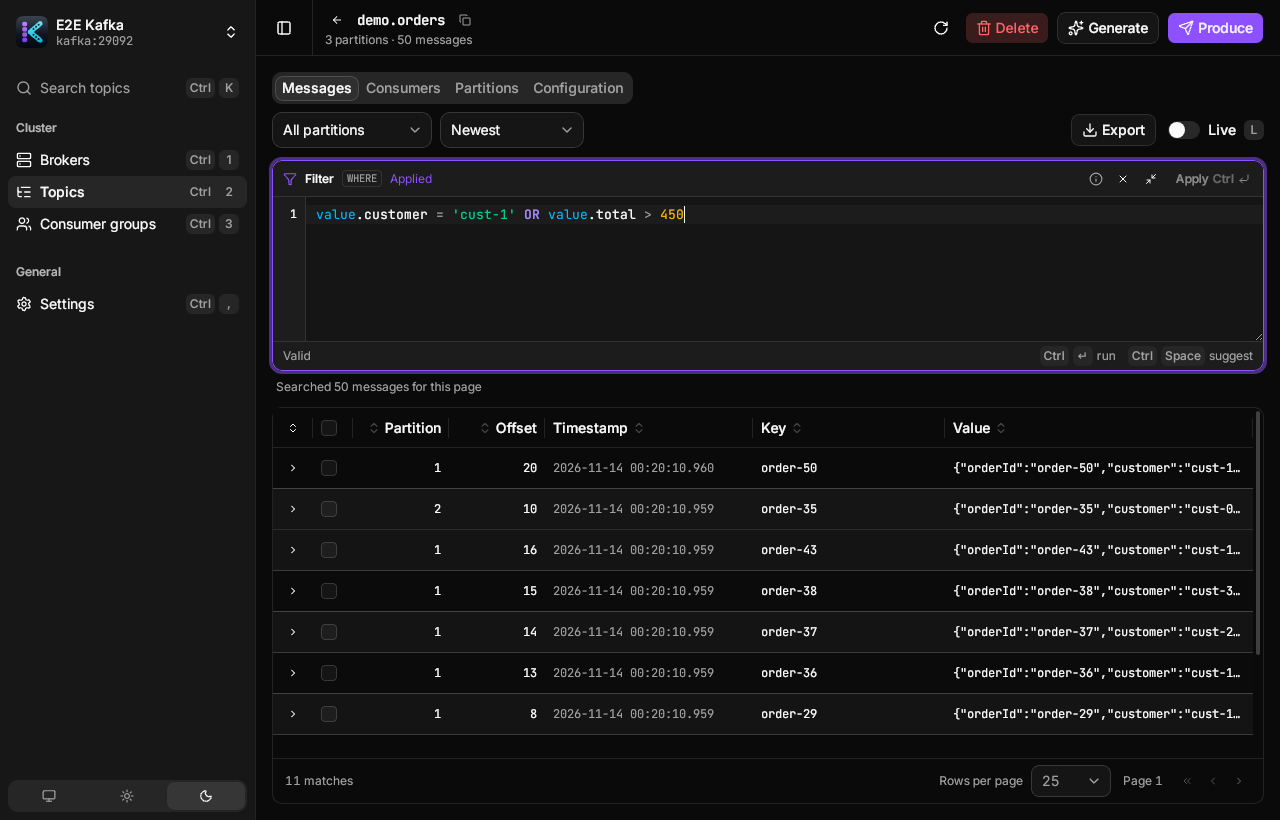
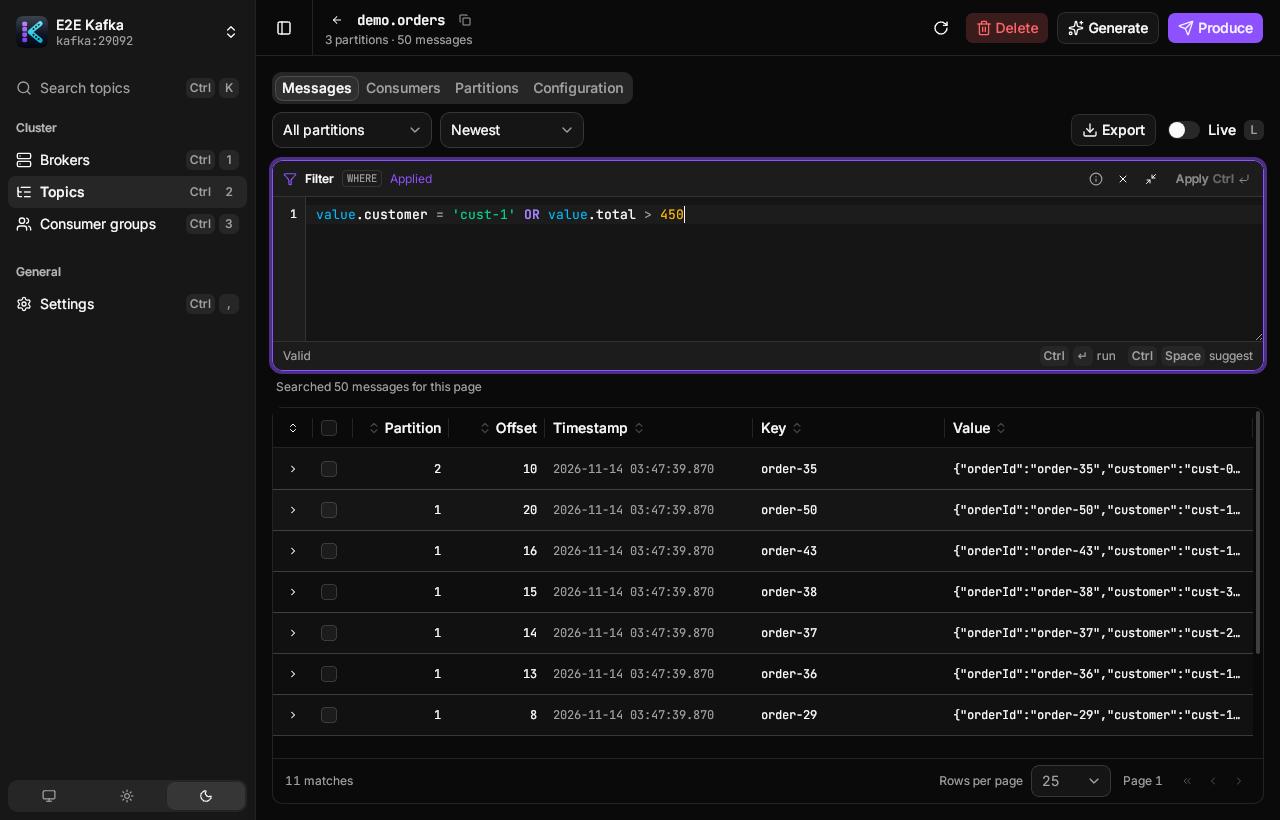
docs: wait for animations before README screenshots

diff --git a/e2e/specs/11-readme-screenshots.e2e.ts b/e2e/specs/11-readme-screenshots.e2e.ts
@@ -31,6 +31,8 @@ describe("README screenshots", () => {
     await $("#cluster-name").setValue("Production");
     // Keeps the default bootstrap address: the WebKitGTK driver drops most of a typed host name.
     await expect($("#cluster-bootstrap")).toHaveValue("localhost:9092");
+    // Moves focus off the name so it isn't shown selected.
+    await openDialog().$("h2=Add cluster").click();
     await settle();
     await snapshot("readme-00_cluster");
     await browser.keys(Key.Escape);
@@ -40,6 +42,8 @@ describe("README screenshots", () => {
     await openDialog().waitForExist({ reverse: true });
     await goTo("Topics");
     await expect($("span=demo.orders")).toBeDisplayed();
+    // Rows fade in one after another.
+    await settle();
     await snapshot("readme-01_topics");
   });
 
